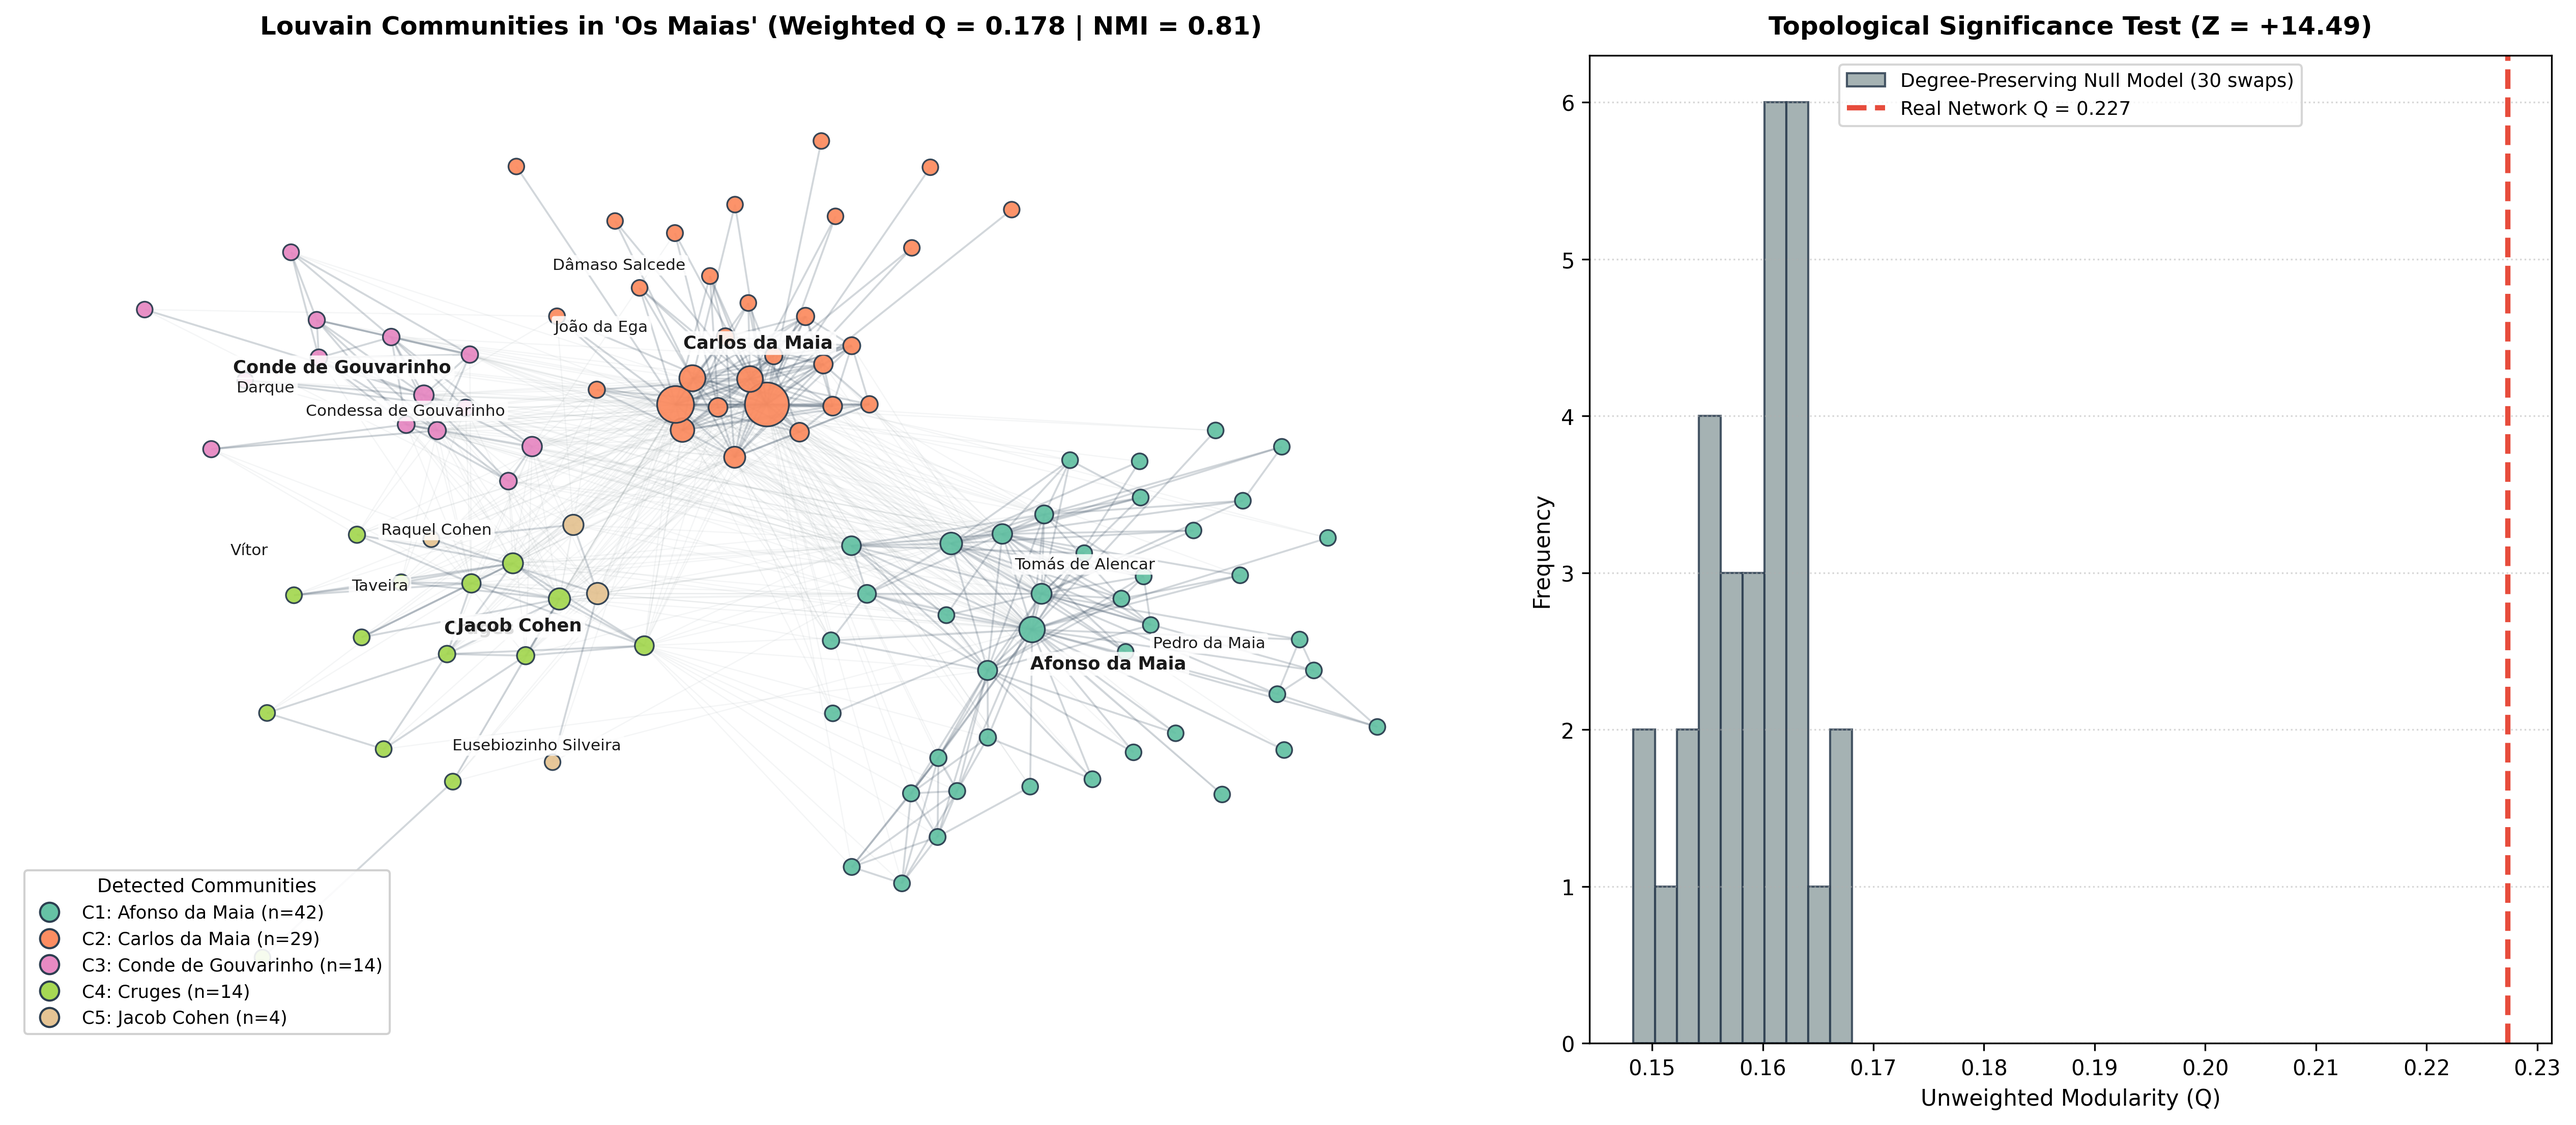
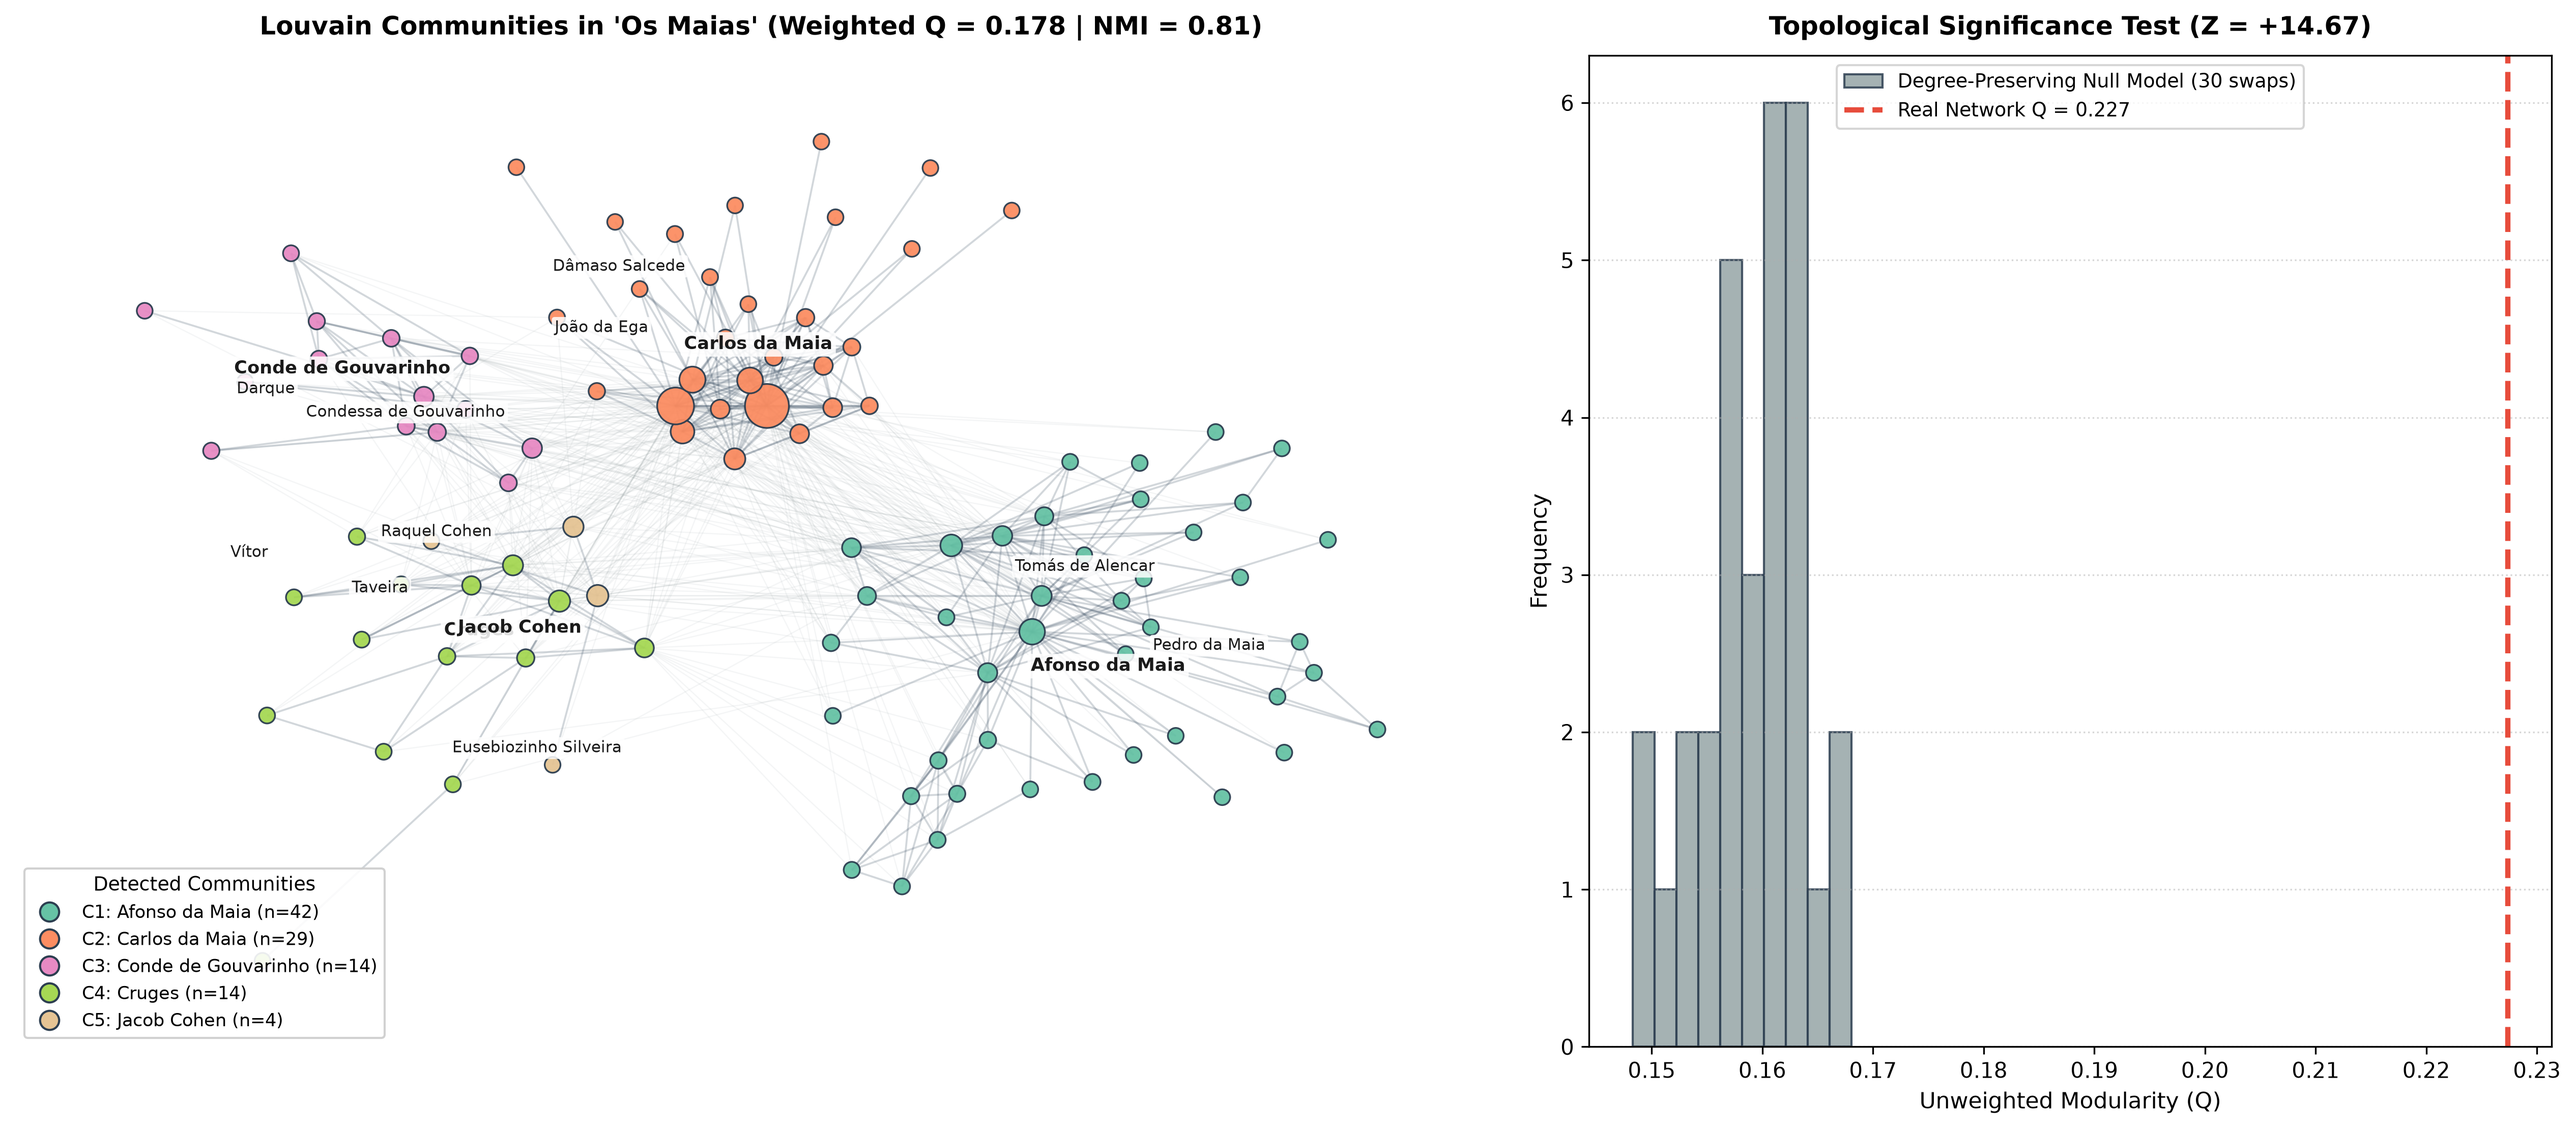
louvain update

diff --git a/louvain.py b/louvain.py
@@ -207,7 +207,7 @@ def run_unweighted_degree_null(G_orig, n_shuffles=30, random_seed=42):
     return np.array(null_Qs)
 
 
-def run_weight_shuffled_null(G_orig, n_shuffles=30, random_seed=42):
+def run_weight_shuffled_null(G_orig, n_shuffles=100, random_seed=42):
     """
     Keep real network edges fixed and randomly permute edge weights across them.
     This isolates the effect of weight distribution without assigning massive
@@ -235,7 +235,7 @@ z_unw = (Q_real_unweighted - null_Q_unw.mean()) / null_Q_unw.std()
 null_Q_w_fixed_topo = run_weight_shuffled_null(G, n_shuffles=30)
 z_w_fixed_topo = (best_Q - null_Q_w_fixed_topo.mean()) / null_Q_w_fixed_topo.std()
 
-print("\n--- NULL MODEL COMPARISON (30 SHUFFLES) ---")
+print("\n--- NULL MODEL COMPARISON (100 SHUFFLES) ---")
 print(
     f"[Unweighted Degree-Preserving] Q_real = {Q_real_unweighted:.4f} vs. "
     f"Q_null = {null_Q_unw.mean():.4f} ± {null_Q_unw.std():.4f} (Z-score = {z_unw:+.2f})"
@@ -382,7 +382,7 @@ axes[1].hist(
     color="#95a5a6",
     edgecolor="#2c3e50",
     alpha=0.85,
-    label="Degree-Preserving Null Model (30 swaps)",
+    label="Degree-Preserving Null Model (100 swaps)",
 )
 axes[1].axvline(
     Q_real_unweighted,
